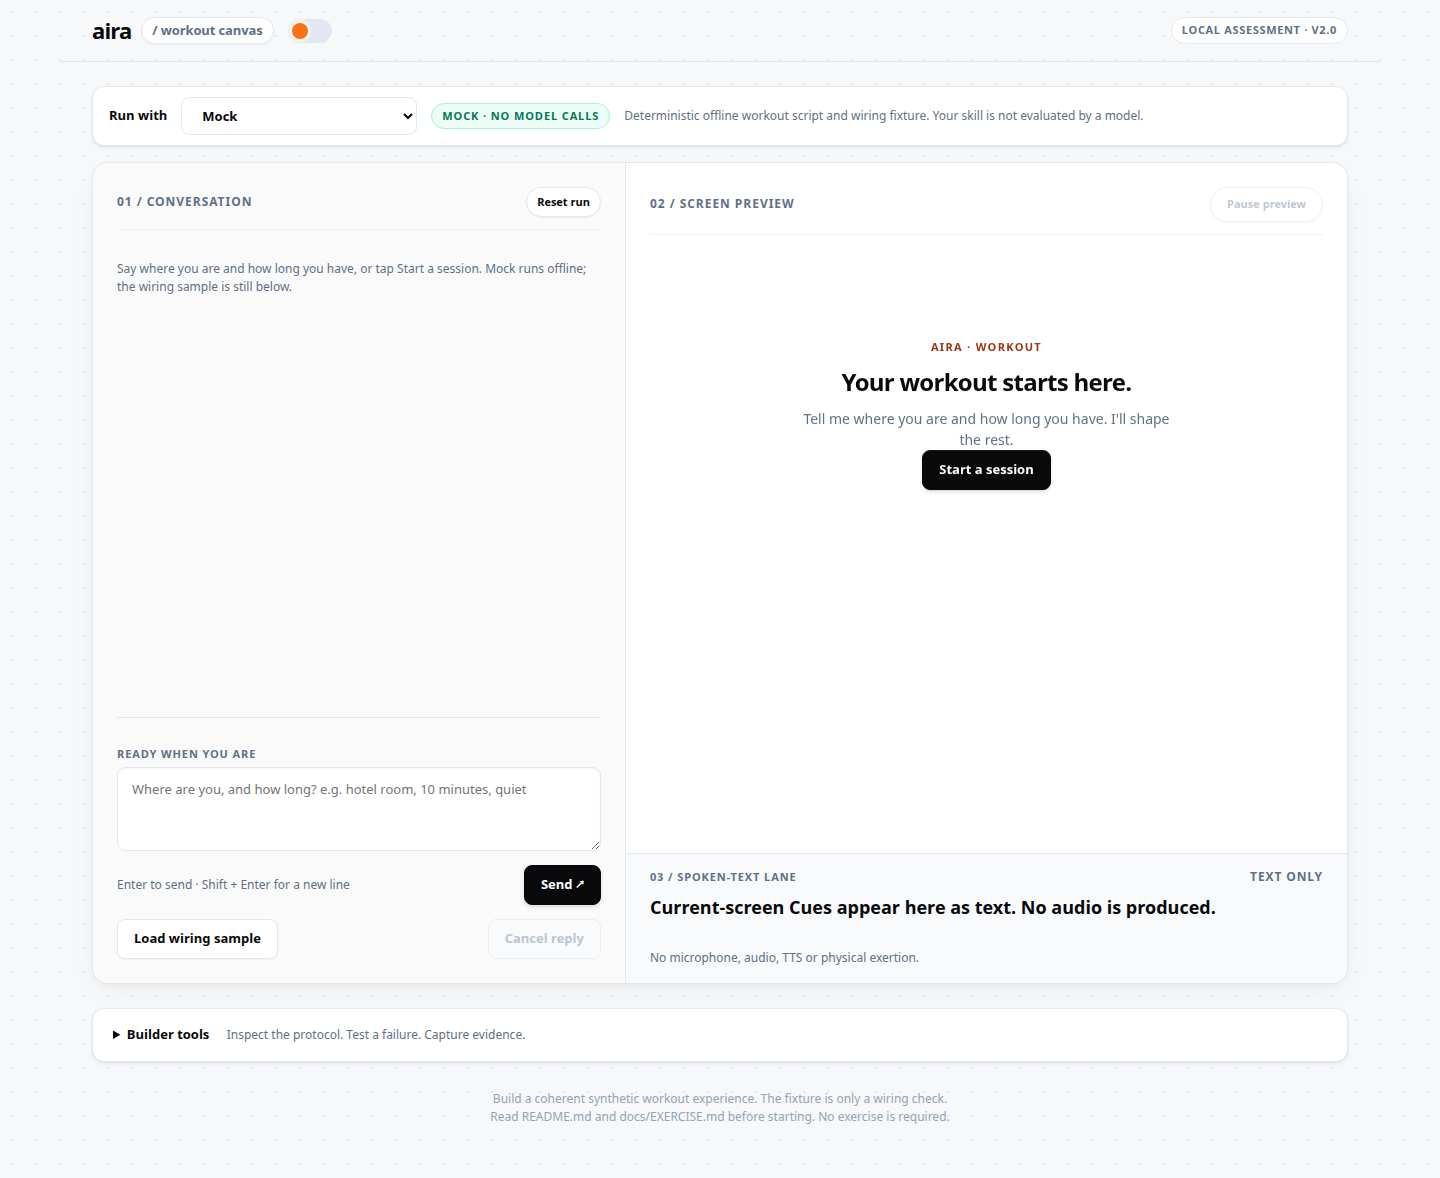
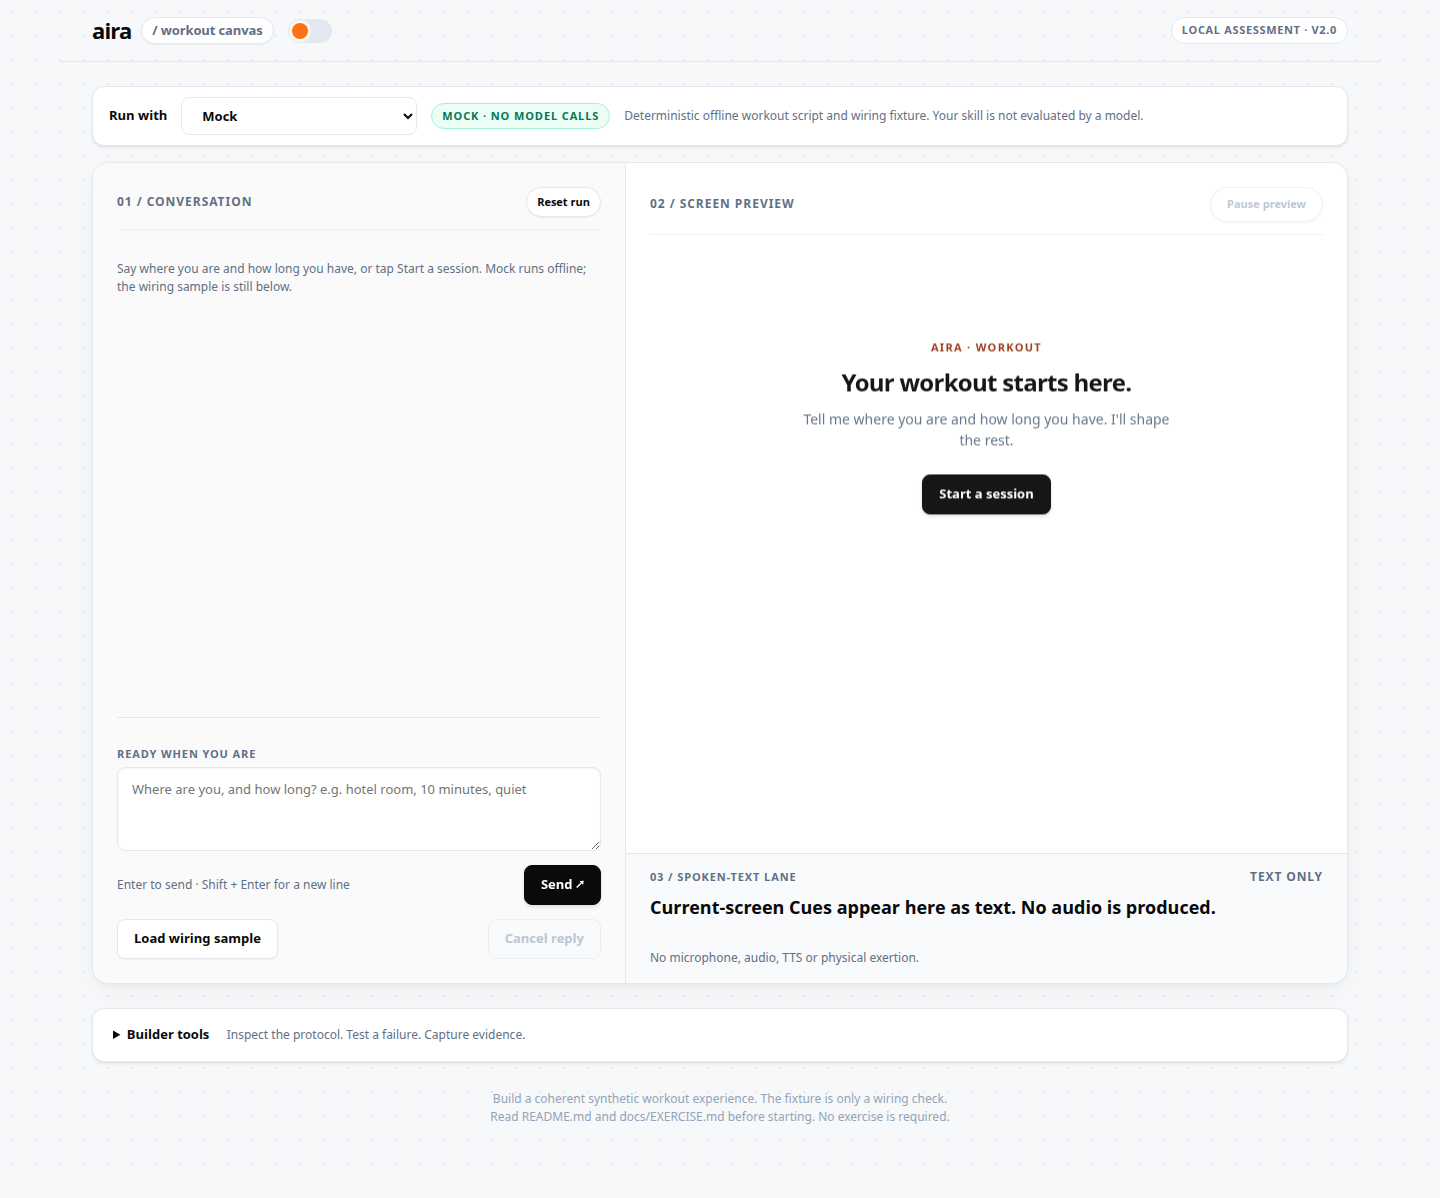
Mobile layout pass and empty-state spacing
- Phones scroll the page naturally; Back/Next is a bar pinned to the
  bottom (same place every step); Aira's line sits just above it
- Touch screens: controls at least 44 px, 16 px text fields (no iPhone
  zoom), keyboard-only hint hidden; timer's main button on its own line
- Start a session sits 24 px below the empty-state text
- Browser test guards the phone layout

diff --git a/src/web/styles.css b/src/web/styles.css
@@ -759,6 +759,10 @@ input[type=checkbox] {
   margin: 0 auto;
 }
 
+.empty .primary {
+  margin-top: 24px;
+}
+
 .block {
   padding: 8px 0;
   overflow-wrap: anywhere;
@@ -1527,10 +1531,6 @@ html.theme-switching::view-transition-new(root) {
     font-size: 10px;
   }
 
-  .spoken h2 {
-    display: block;
-  }
-
   .row {
     flex-wrap: wrap;
   }
@@ -1566,16 +1566,175 @@ html.theme-switching::view-transition-new(root) {
     top: 4px;
   }
 
-  /* On a phone the screen panel is exactly one window tall. */
-  .workspace {
+  /* Phones: the page scrolls naturally (no scroll box inside a scrolling page). The screen panel
+     fills at least the window, and Back/Next stay pinned to the bottom, under the thumb. */
+  .workspace,
+  body.focus .workspace {
     height: auto;
   }
 
   .preview {
-    height: max(520px, calc(100svh - var(--shell-top, 200px) - 16px));
+    min-height: max(520px, calc(100svh - var(--shell-top, 200px)));
+  }
+
+  body.focus main {
+    padding-bottom: 0;
+  }
+
+  body.focus .preview {
+    min-height: calc(100svh - 16px);
+  }
+
+  #screen {
+    flex: 1 0 auto;
+    overflow: visible;
+    container-type: normal;
+  }
+
+  /* Aira's line sits just above the stepper, and the stepper is a full-width bar that stays at the
+     bottom of the window, so Next is in the same place on every step. */
+  .preview > .spoken {
+    order: 1;
+    margin: 16px -24px 0;
+  }
+
+  #navigation {
+    order: 2;
+    position: sticky;
+    bottom: 0;
+    z-index: 2;
+    margin: 0 -24px -24px;
+    padding: 12px 24px;
+    background: var(--surface);
+  }
+
+  /* Reset and Simulate finish share one line under the main timer button. */
+  .timer .row {
+    gap: 4px;
+  }
+
+  .timer .row button:not(.primary) {
+    padding-inline: 10px;
+  }
+
+  .timer .row > .primary {
+    flex: 1 0 100%;
+    max-width: 240px;
+    margin-inline: auto;
+  }
+
+  /* Screen buttons share each row evenly: bigger targets, and long ones get the width they need. */
+  #screen > .row button {
+    flex: 1 1 auto;
+  }
+
+  .provider-panel select {
+    flex: 1 1 100%;
+  }
+
+  .conversation > .row {
+    display: grid;
+    grid-template-columns: 1fr;
   }
 
   .provider-panel p.micro {
     display: none;
   }
 }
+
+/* Shorter phones: a smaller ring and headline so a whole step, Aira's line included, fits on one
+   screen (the page still scrolls if a screen is taller). */
+@media (max-width: 820px) and (max-height: 900px) {
+  #screen .keyword strong {
+    font-size: 38px;
+  }
+
+  #screen .keyword {
+    padding: 8px 0 4px;
+  }
+
+  #screen .timer-dial {
+    width: 132px;
+    height: 132px;
+  }
+
+  #screen .timer-dial strong {
+    font-size: 30px;
+  }
+}
+
+@media (max-width: 820px) and (max-height: 700px) {
+  #screen .keyword strong {
+    font-size: 32px;
+  }
+
+  #screen .timer-dial {
+    width: 108px;
+    height: 108px;
+  }
+
+  #screen .timer-dial strong {
+    font-size: 24px;
+  }
+
+  #screen .timer > .eyebrow {
+    display: none;
+  }
+
+  /* Small phones in focus: Aira's words stay, the lane's label goes, and spacing tightens. */
+  body.focus .preview > .spoken {
+    padding-top: 8px;
+    padding-bottom: 8px;
+  }
+
+  body.focus .spoken h2 {
+    display: none;
+  }
+
+  body.focus .spoken p {
+    margin: 0;
+    font-size: 16px;
+  }
+
+  #screen .alert {
+    padding: 8px 12px;
+    font-size: 13px;
+  }
+
+  #screen .keyword p {
+    margin-top: 2px;
+  }
+}
+
+/* Touch screens: every control is at least 44 px tall (40 px for the small panel buttons), text
+   fields use 16 px text so phones do not zoom on focus, and the keyboard-only hint steps aside. */
+@media (pointer: coarse) {
+  button,
+  select,
+  #screen .row button {
+    min-height: 44px;
+  }
+
+  .panel-heading button {
+    min-height: 40px;
+  }
+
+  .theme-switch {
+    margin: -8px 0;
+    padding: 10px 2px;
+  }
+
+  textarea,
+  select {
+    font-size: 16px;
+  }
+
+  #composer .row {
+    justify-content: flex-end;
+  }
+
+  #composer .row > .micro {
+    display: none;
+  }
+}
+

diff --git a/docs/EXPLANATION.md b/docs/EXPLANATION.md
@@ -36,7 +36,7 @@ A workout is a hands-busy moment. So Aira reads the situation from one message, 
 7. **Glanceable from across the room.** Each clock is a ring that empties as time runs, readable without reading digits. At zero it turns green and says "Time. Next when you're ready.", and Next lights up, because a person with busy hands isn't watching the numbers.
 8. **A component of my own: `SessionMap`.** One bar for the whole session, each segment sized by its length. On arrival it shows the shape of what's ahead. On the close it shows what actually ran: ran, partly, not started. The model only decides *where* the map goes. The app draws it from the real Timers and their local states, so it can't report a block that didn't run, and the close screen is truthful the moment the person arrives, before any model turn.
 9. **Focus mode while the clock runs.** Once the session starts (the first clock screen), everything but the workout steps aside: page header, chat, builder tools. The screen fills the window with Back/Next and Aira's line pinned at the bottom, sized to fit from a phone to a large monitor. It ends on the close, so the receipt appears next to the chat. The chat is one tap away ("Show chat" or Esc), and a failed reply brings it back automatically so Retry is never hidden. When it switches by itself, a short note says so ("Focus mode on · Show chat or Esc for the conversation", then "Session complete · the chat is back"). With the chat shown on a short screen, the timer card turns side by side; focus mode keeps it stacked. The panel glides to its new place on entry and exit. Focus mode only applies to planned sessions (marked by a `SessionMap`), not the starter's wiring sample.
-10. **The whole app fits the window.** Outside focus mode the workspace is exactly as tall as the window below the header and mode bar: the chat scrolls inside its column with the message box always visible, and the screen keeps Back/Next and Aira's line at the bottom. On phones the screen panel is one window tall with the chat below. Content sizes itself to the screen area's real height (CSS container queries): a smaller ring and headline, and on short areas the ring sits beside its controls. Measured on every screen state, in normal and focus mode, at 390×844, 768×1024, 1024×768, 1280×720, 1366×768, 1440×900, 1920×930 and 1920×1080. Only a 360×640 phone scrolls inside the screen, with Next and Aira's line still visible.
+10. **The whole app fits the window.** Outside focus mode the workspace is exactly as tall as the window below the header and mode bar: the chat scrolls inside its column with the message box always visible, and the screen keeps Back/Next and Aira's line at the bottom. On phones the screen panel is one window tall with the chat below. Content sizes itself to the screen area's real height (CSS container queries): a smaller ring and headline, and on short areas the ring sits beside its controls. Measured on every screen state, in normal and focus mode, at 390×844, 768×1024, 1024×768, 1280×720, 1366×768, 1440×900, 1920×930 and 1920×1080. Only a 360×640 phone scrolls inside the screen, with Next and Aira's line still visible. On phones the page scrolls naturally instead: Back/Next is a bar pinned to the bottom of the screen, and on touch screens every control is at least 44 px tall.
 11. **Light and dark themes.** Every colour is a named token with its light and dark value side by side; the page follows the system theme, and a header toggle overrides it (remembered per browser). A test fails if a raw colour appears outside the tokens, and checks that content text meets WCAG AA contrast in both themes.
 
 ## Where it lives
